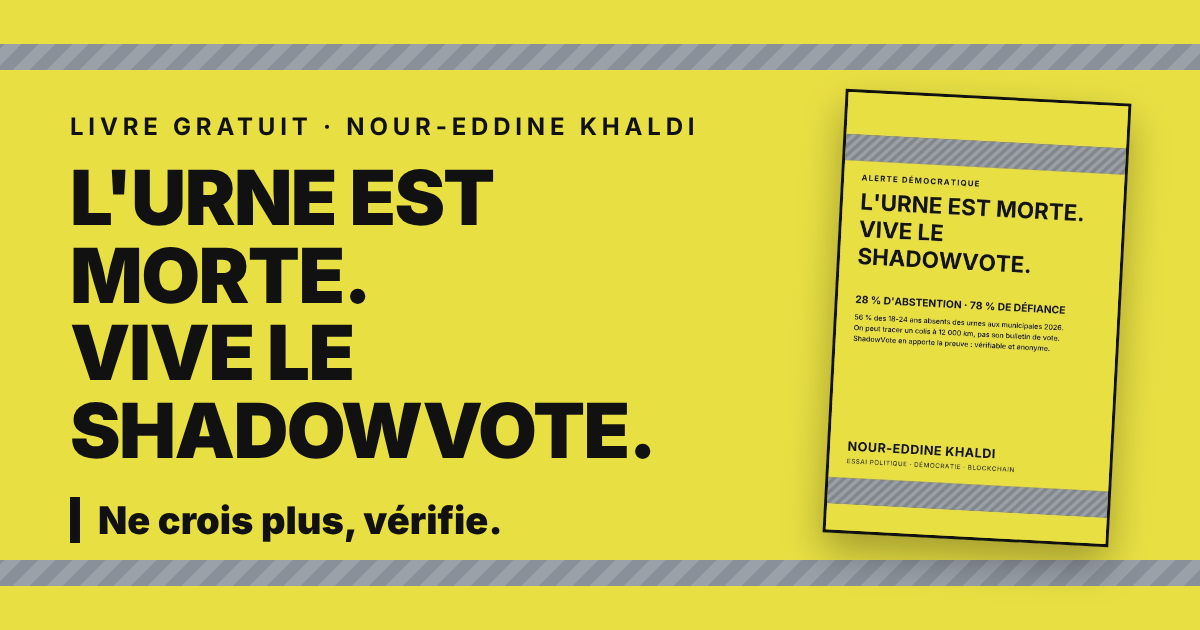
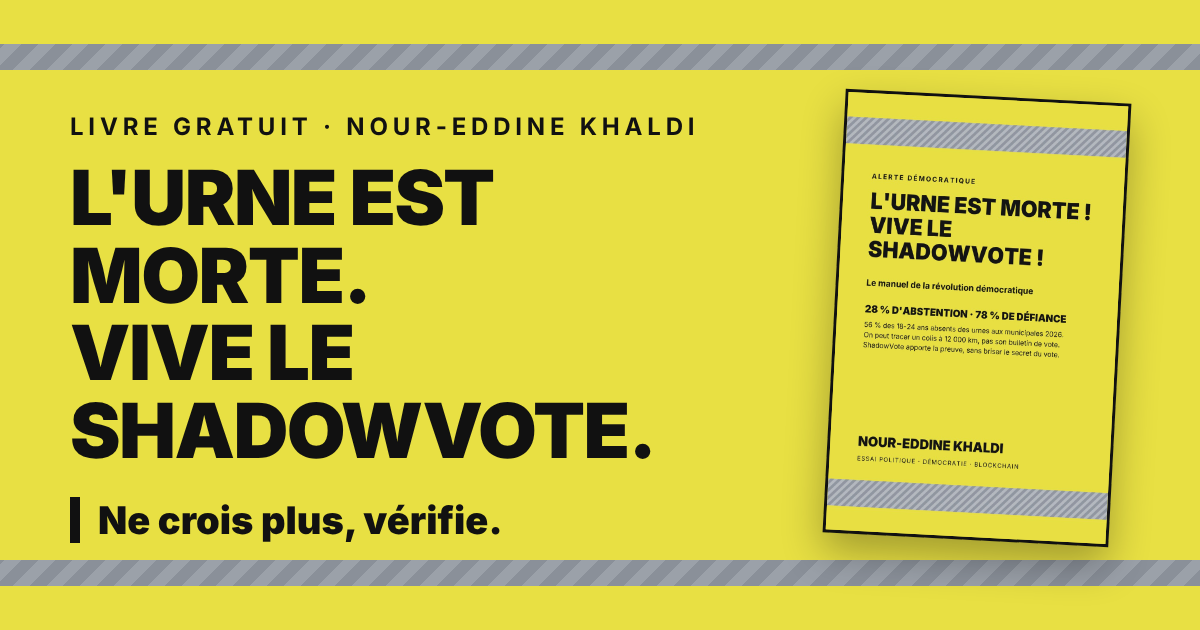
Comprendre : pseudonyme au lieu d'anonyme ; image de partage avec la nouvelle couverture

Changed region(s): [[0.6783, 0.181, 0.9558, 0.573], [0.6783, 0.6937, 0.925, 0.8444]]

diff --git a/comprendre.html b/comprendre.html
@@ -5,13 +5,13 @@
 <meta name="viewport" content="width=device-width, initial-scale=1">
 <meta name="color-scheme" content="only light">
 <title>Comprendre le ShadowVote · ShadowVote</title>
-<meta name="description" content="Le ShadowVote en 4 étapes : un vote citoyen parallèle, anonyme et vérifiable, qui ne remplace pas l&#x27;élection officielle.">
+<meta name="description" content="Le ShadowVote en 4 étapes : un vote citoyen parallèle, vérifiable et respectueux du secret du vote, qui ne remplace pas l&#x27;élection officielle.">
 <link rel="canonical" href="https://www.shadowvote.fr/comprendre">
 <meta name="theme-color" content="#E8E043">
 <meta property="og:type" content="website"><meta property="og:locale" content="fr_FR"><meta property="og:site_name" content="ShadowVote">
-<meta property="og:title" content="Comprendre le ShadowVote · ShadowVote"><meta property="og:description" content="Le ShadowVote en 4 étapes : un vote citoyen parallèle, anonyme et vérifiable, qui ne remplace pas l&#x27;élection officielle.">
+<meta property="og:title" content="Comprendre le ShadowVote · ShadowVote"><meta property="og:description" content="Le ShadowVote en 4 étapes : un vote citoyen parallèle, vérifiable et respectueux du secret du vote, qui ne remplace pas l&#x27;élection officielle.">
 <meta property="og:url" content="https://www.shadowvote.fr/comprendre"><meta property="og:image" content="https://www.shadowvote.fr/og.png"><meta property="og:image:width" content="1200"><meta property="og:image:height" content="630">
-<meta name="twitter:card" content="summary_large_image"><meta name="twitter:title" content="Comprendre le ShadowVote · ShadowVote"><meta name="twitter:description" content="Le ShadowVote en 4 étapes : un vote citoyen parallèle, anonyme et vérifiable, qui ne remplace pas l&#x27;élection officielle."><meta name="twitter:image" content="https://www.shadowvote.fr/og.png">
+<meta name="twitter:card" content="summary_large_image"><meta name="twitter:title" content="Comprendre le ShadowVote · ShadowVote"><meta name="twitter:description" content="Le ShadowVote en 4 étapes : un vote citoyen parallèle, vérifiable et respectueux du secret du vote, qui ne remplace pas l&#x27;élection officielle."><meta name="twitter:image" content="https://www.shadowvote.fr/og.png">
 <link rel="icon" href="/favicon.svg" type="image/svg+xml"><link rel="apple-touch-icon" href="/apple-touch-icon.png">
 <link rel="preload" href="/fonts/inter-latin-800-normal.woff2" as="font" type="font/woff2" crossorigin>
 <link rel="preload" href="/fonts/inter-latin-400-normal.woff2" as="font" type="font/woff2" crossorigin>
@@ -31,7 +31,7 @@
 <h2>Comment ça marcherait, en 4 étapes</h2>
 <ol class="etapes">
 <li><span>1</span><div><h3>Tu votes normalement</h3><p>Le jour de l'élection, tu vas voter dans ton bureau, comme d'habitude. Rien ne change.</p></div></li>
-<li><span>2</span><div><h3>Tu enregistres aussi ton choix</h3><p>Si tu le souhaites, tu inscris aussi ton choix sur un registre citoyen parallèle, de façon anonyme.</p></div></li>
+<li><span>2</span><div><h3>Tu enregistres aussi ton choix</h3><p>Si tu le souhaites, tu inscris aussi ton choix sur un registre citoyen parallèle, sous un pseudonyme.</p></div></li>
 <li><span>3</span><div><h3>Tu vérifies</h3><p>Le soir, tu contrôles toi-même que ta voix figure bien dans le registre. Personne n'a pu la modifier.</p></div></li>
 <li><span>4</span><div><h3>On compare</h3><p>Chacun peut comparer les deux résultats. S'ils se rejoignent, la confiance revient. S'ils s'écartent nettement, une question est posée publiquement, avec des chiffres.</p></div></li>
 </ol>
